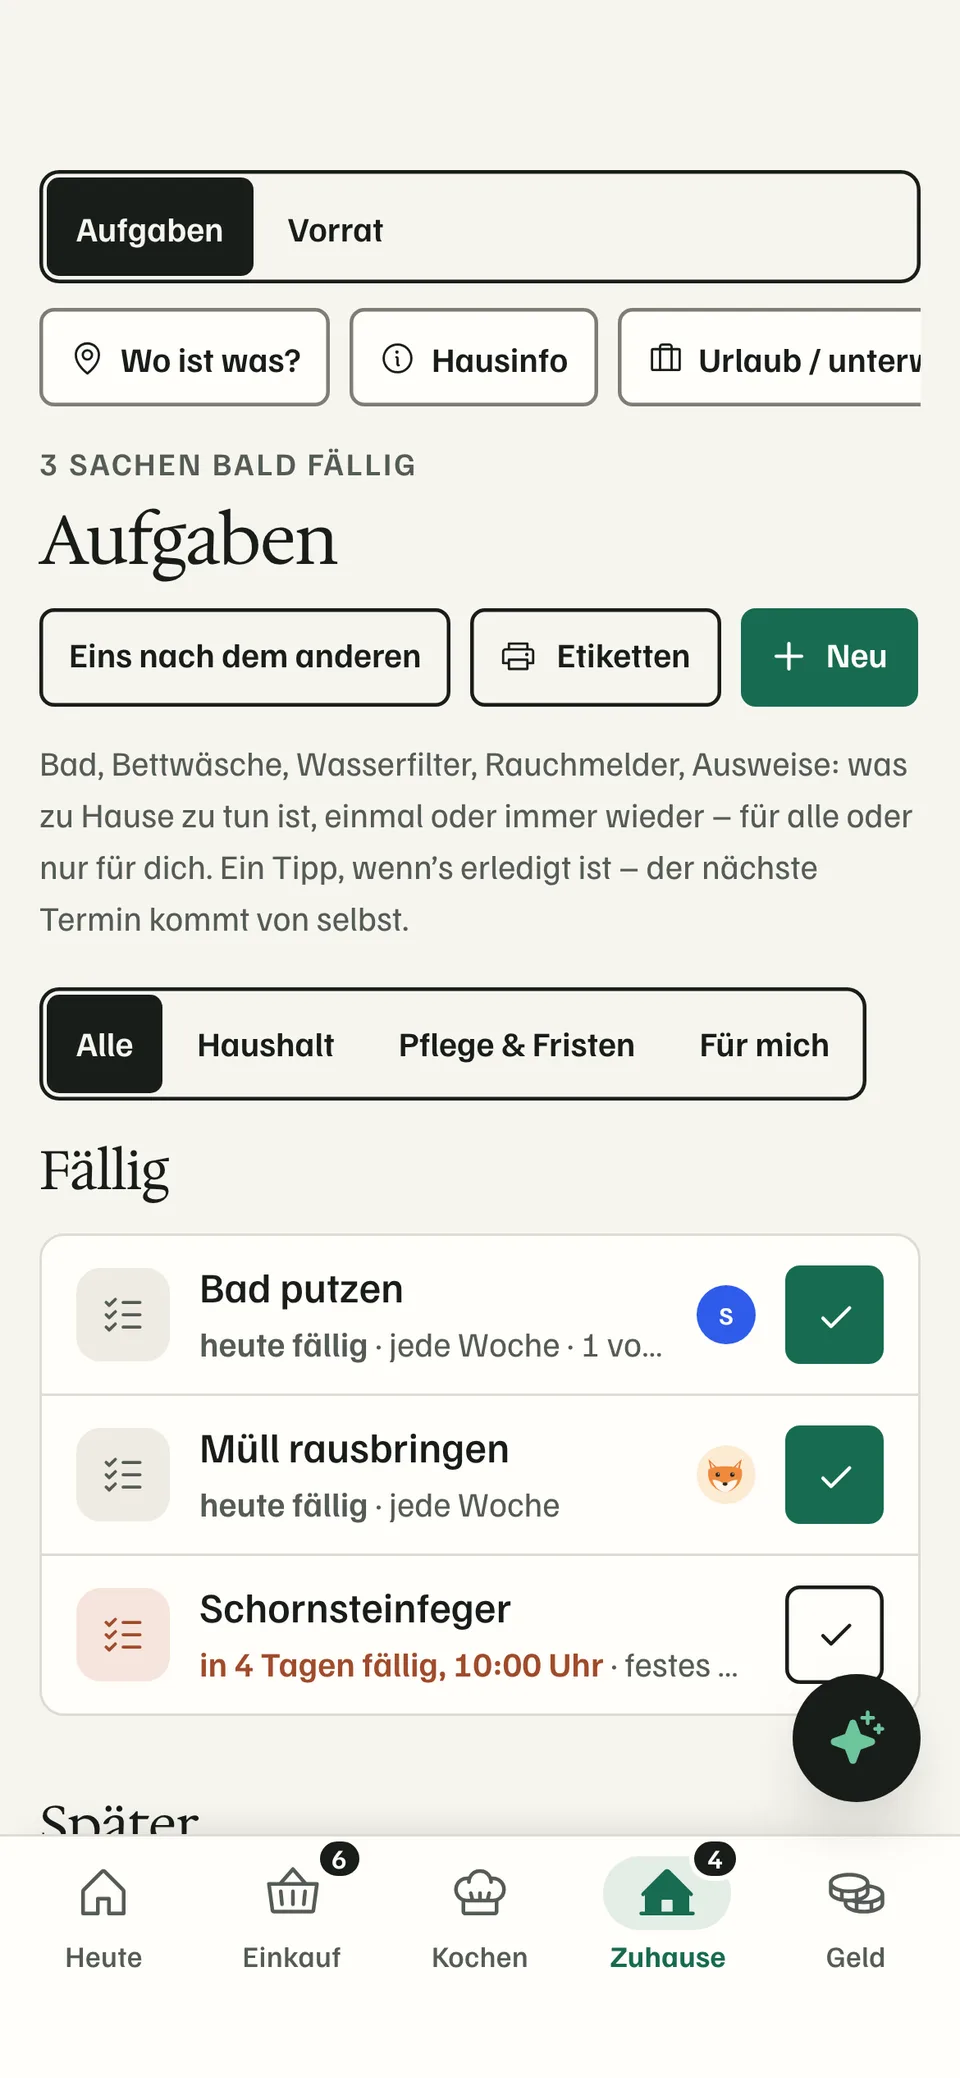
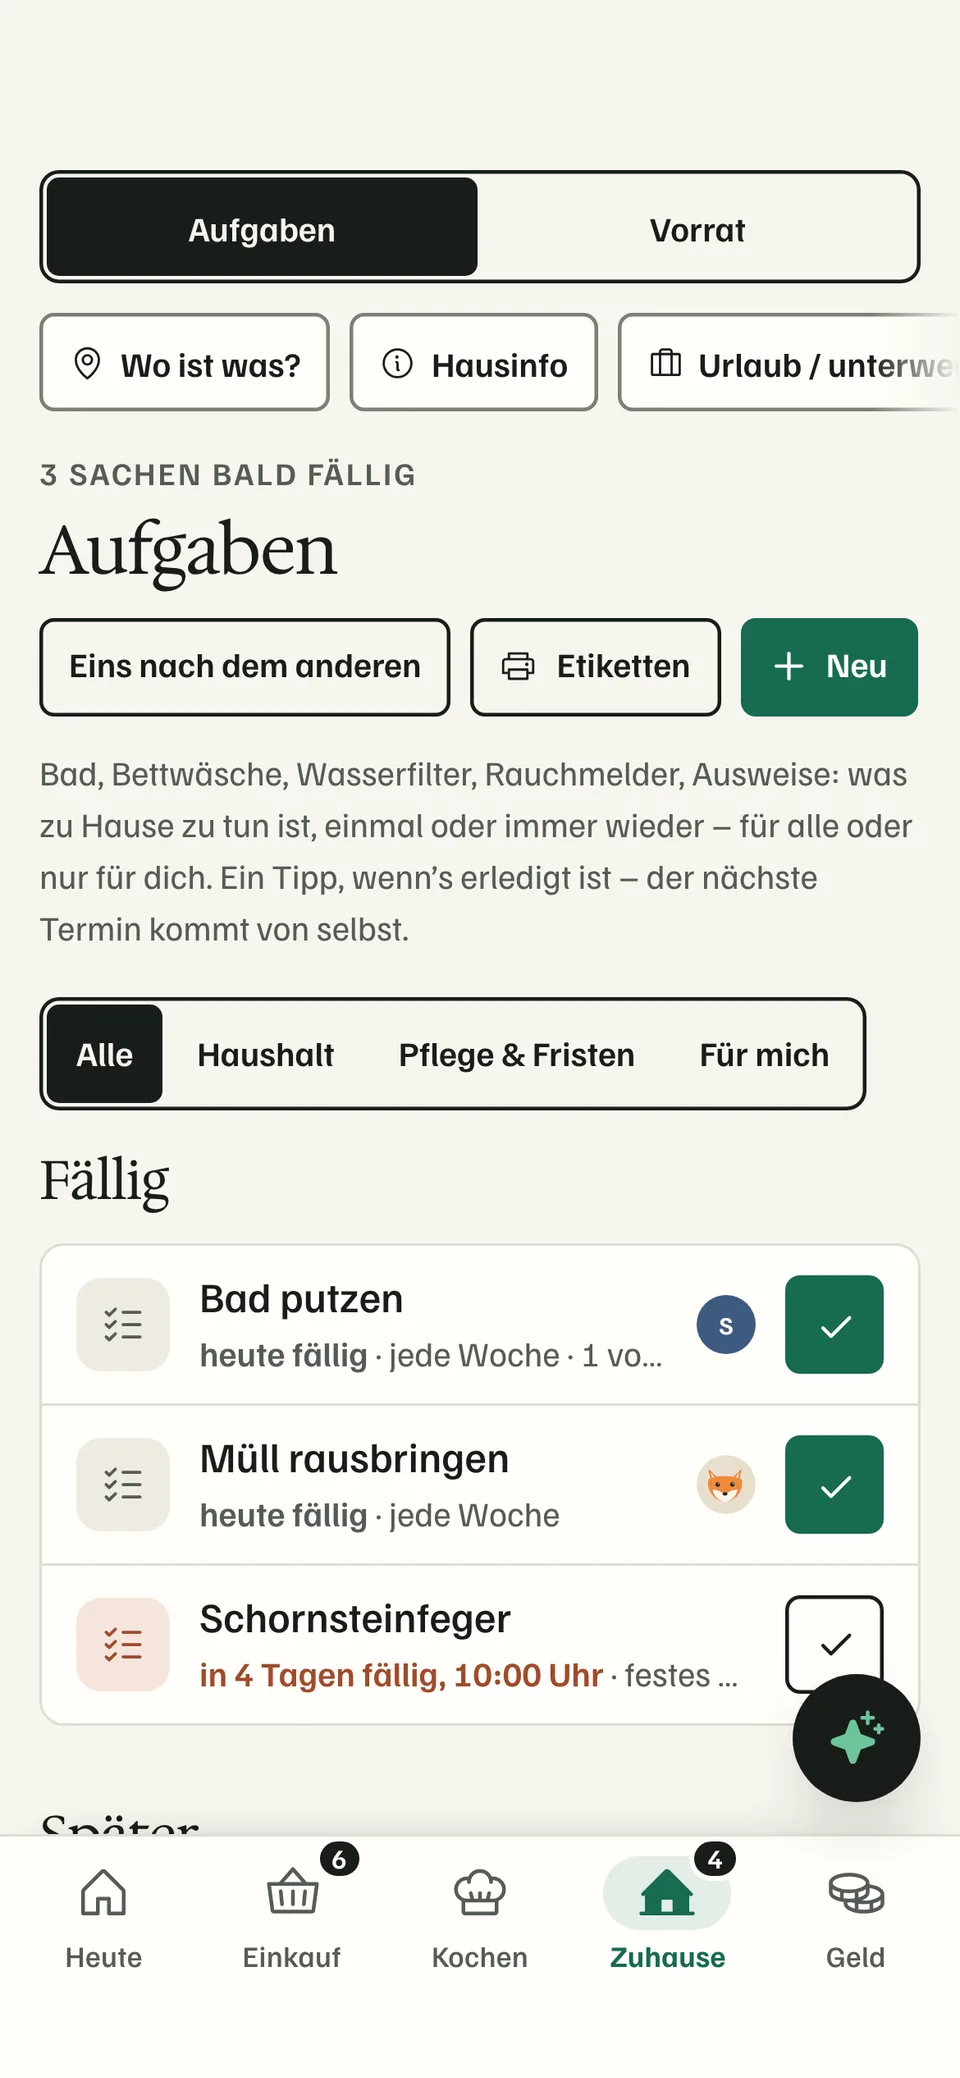
Design review: web app must-fixes, compact Denkarbeit answers, calmer person colours, new site screenshots
- Heute tiles stack below 420 px and break words properly
- Seg keeps its width; Seg full for Aufgaben/Vorrat; door chips fade at the
  edge instead of being cut off
- Aufgaben: calendar cards replaced by one link to Einstellungen
- Denkarbeit-Check: four short answers as one compact control (web + iOS),
  hint after "mostly me" – page about half as long
- Einkauf: "Ich hol's" as an icon on phones; disabled primary buttons look
  disabled; slimmer stepper on phones; region price sample not monospace
- earthy person colours, older saturated ones shown calmer (web + iOS)
- website screenshots renewed (de, en)
- docs/design/2026-10-15-design-review.md: what was done, what Till decides

Claude-Session: https://claude.ai/code/session_01JiCpWFdknKAgdRL9Z1ENTb

diff --git a/web/src/styles.css b/web/src/styles.css
@@ -826,6 +826,15 @@ h2.h3 {
   cursor: default;
   transform: none;
 }
+/* a disabled primary button looks disabled, not like a broken green one */
+.btn.primary:disabled,
+.btn.accent:disabled {
+  opacity: 1;
+  background: var(--surface-2);
+  color: var(--ink-3);
+  border-color: var(--line);
+  box-shadow: inset 0 0 0 1px var(--line);
+}
 .btn.primary,
 .btn.accent {
   background: var(--primary);
@@ -9754,7 +9763,8 @@ button.li {
 }
 .entry-tile > * {
   max-width: 100%;
-  overflow-wrap: anywhere;
+  /* break long words at syllables (hyphens from body), never in the middle of "Einkaufszettel" */
+  overflow-wrap: break-word;
 }
 .entry-tile > svg {
   flex-shrink: 0;
@@ -11052,3 +11062,67 @@ html.gentle .badge.empty {
   outline: 1.5px dashed var(--primary);
   outline-offset: 2px;
 }
+
+/* ------------------------------------------------------------ design review 15 Oct 2026 (web app) */
+/* Heute: the three tiles stack on narrow phones */
+@media (max-width: 420px) {
+  .entry-grid { grid-template-columns: 1fr; }
+  .entry-tile { flex-direction: row; align-items: center; min-height: 56px; gap: 12px; }
+}
+/* segmented controls keep their own width; .seg.full fills the row */
+.seg { align-self: flex-start; }
+.seg.full { display: flex; align-self: stretch; }
+.seg.full button { flex: 1; }
+/* chip rows scroll to the screen edge and fade out instead of being cut off inside the margin */
+.home-doors {
+  margin: 0 calc(var(--page-gutter, 16px) * -1);
+  padding: 2px var(--page-gutter, 16px);
+  scroll-padding: 0 var(--page-gutter, 16px);
+  -webkit-mask-image: linear-gradient(90deg, #000 calc(100% - 36px), transparent);
+  mask-image: linear-gradient(90deg, #000 calc(100% - 36px), transparent);
+}
+/* list rows on phones: "Ich hol's" as an icon so the name gets the room */
+.claim-btn { display: inline-flex; align-items: center; gap: 6px; }
+@media (max-width: 480px) {
+  .claim-btn { min-width: 44px; padding: 0 10px; justify-content: center; }
+  .claim-btn .claim-label { position: absolute; width: 1px; height: 1px; overflow: hidden; clip: rect(0 0 0 0); white-space: nowrap; }
+  /* Vorrat: a slimmer stepper (the tap area stays 44 px via ::before on touch) */
+  .stepper button { width: 32px; height: 32px; }
+  .stepper .val { min-width: 24px; }
+}
+
+/* Denkarbeit-Check: four short answers as one compact control (was four outlined chips per card) */
+.load-answers {
+  display: grid;
+  grid-template-columns: repeat(4, minmax(0, 1fr));
+  gap: 4px;
+  padding: 3px;
+  border-radius: var(--r-sm);
+  background: var(--surface-2);
+}
+.load-answers button {
+  min-height: 44px;
+  padding: 4px 6px;
+  border: 0;
+  border-radius: var(--r-xs);
+  background: transparent;
+  color: var(--ink-2);
+  font: inherit;
+  font-size: var(--fs-s);
+  font-weight: 600;
+  line-height: 1.2;
+  cursor: pointer;
+}
+.load-answers button.on {
+  background: var(--ink);
+  color: var(--canvas);
+}
+.load-answers button:focus-visible {
+  outline: 2px solid var(--primary);
+  outline-offset: 1px;
+}
+
+/* a button row that leads somewhere: title + wrapping explanation (e.g. Aufgaben › Kalender & Erinnerungen) */
+.nav-row { gap: 12px; padding: 12px 16px; width: 100%; text-align: left; font: inherit; color: inherit; }
+.nav-row .grow { display: flex; flex-direction: column; min-width: 0; }
+.nav-row .sub { white-space: normal; }

diff --git a/ios/ToHuus/Features/Household/LoadCardsView.swift b/ios/ToHuus/Features/Household/LoadCardsView.swift
@@ -45,6 +45,8 @@ enum LoadAnswers {
     static let all: [(key: String, title: String)] = [
         ("me", "Mostly me"), ("shared", "We share it"), ("other", "Mostly someone else"), ("na", "Not our thing"),
     ]
+    /// short labels for the answer buttons (the full one is the accessibility label)
+    static let short: [String: String] = ["me": "Me", "shared": "We share", "other": "Someone else", "na": "Not for us"]
 }
 
 /// Entry row (Aufgaben › Wer hat was im Blick)
@@ -142,18 +144,27 @@ struct LoadCardsView: View {
         Section {
             VStack(alignment: .leading, spacing: 10) {
                 Text(c.text).font(.headline)
-                FlowLayout(spacing: 8) {
+                // four short answers as one compact control (web: .load-answers)
+                HStack(spacing: 4) {
                     ForEach(LoadAnswers.all, id: \.key) { a in
+                        let on = c.mine == a.key
                         Button { Task { await answer(c, a.key) } } label: {
-                            Text(L(a.title)).font(.subheadline)
-                                .padding(.horizontal, 12).frame(minHeight: 44)
-                                .background(Capsule().fill(c.mine == a.key ? Theme.primary.opacity(0.18) : Theme.line.opacity(0.5)))
-                                .overlay(Capsule().stroke(c.mine == a.key ? Theme.primary : .clear, lineWidth: 1.5))
+                            Text(L(LoadAnswers.short[a.key] ?? a.title))
+                                .font(.footnote.weight(.semibold))
+                                .multilineTextAlignment(.center)
+                                .minimumScaleFactor(0.85)
+                                .frame(maxWidth: .infinity, minHeight: 44)
+                                .foregroundStyle(on ? Theme.canvas : Theme.ink2)
+                                .background(on ? Theme.ink : Color.clear, in: RoundedRectangle(cornerRadius: Theme.Radius.sm))
+                                .contentShape(Rectangle())
                         }
                         .buttonStyle(.plain)
-                        .accessibilityAddTraits(c.mine == a.key ? .isSelected : [])
+                        .accessibilityLabel(L(a.title))
+                        .accessibilityAddTraits(on ? .isSelected : [])
                     }
                 }
+                .padding(3)
+                .background(Theme.surface2, in: RoundedRectangle(cornerRadius: Theme.Radius.base))
                 if let h = c.household {
                     Text(LoadAnswers.all.compactMap { a in
                         let names = h.who[a.key] ?? []
@@ -161,7 +172,7 @@ struct LoadCardsView: View {
                     }.joined(separator: " · "))
                     .font(.caption).foregroundStyle(Theme.ink3)
                 }
-                if let help = c.help {
+                if let help = c.help, c.mine == "me" {
                     Label("\(L("How ToHuus helps")): \(help.text)", systemImage: "sparkles").font(.caption).foregroundStyle(Theme.ink2)
                 }
                 if c.mine == "me" {

diff --git a/web/src/pages/LoadCards.tsx b/web/src/pages/LoadCards.tsx
@@ -29,6 +29,9 @@ interface Deck {
   members: number;
 }
 
+/** short labels for the answer buttons (the full one is the accessible name) */
+const SHORT: Record<Answer, string> = { me: 'Me', shared: 'We share', other: 'Someone else', na: 'Not for us' };
+
 export const ANSWERS: [Answer, string][] = [
   ['me', 'Mostly me'],
   ['shared', 'We share it'],
@@ -154,10 +157,10 @@ export function LoadCardsPage() {
           <div key={c.key} className="card loadcard">
             <div className="eyebrow">{d.areas.find((a) => a.key === c.area)?.title}</div>
             <p className="loadcard-text">{c.text}</p>
-            <div className="chips" role="radiogroup" aria-label={c.text}>
+            <div className="load-answers" role="radiogroup" aria-label={c.text}>
               {ANSWERS.map(([a, label]) => (
-                <button key={a} role="radio" aria-checked={c.mine === a} className={`chip ${c.mine === a ? 'on' : ''}`} onClick={() => answer(c.key, a)}>
-                  {t(label)}
+                <button key={a} role="radio" aria-checked={c.mine === a} aria-label={t(label)} className={c.mine === a ? 'on' : ''} onClick={() => answer(c.key, a)}>
+                  {t(SHORT[a])}
                 </button>
               ))}
             </div>
@@ -168,7 +171,8 @@ export function LoadCardsPage() {
                   .join(' · ')}
               </p>
             )}
-            {c.help && (
+            {/* the hint matters where it takes something off your head: shown once you said "mostly me" */}
+            {c.help && c.mine === 'me' && (
               <button className="linkish small" style={{ marginTop: 8 }} onClick={() => nav(c.help!.path)}>
                 {t('How ToHuus helps')}: {c.help.text} <ArrowRight size={12} />
               </button>

diff --git a/web/src/pages/Care.tsx b/web/src/pages/Care.tsx
@@ -19,6 +19,8 @@ import {
   ShieldCheck,
   Trash,
   Wrench,
+  CalendarBlank,
+  CaretRight,
 } from '@phosphor-icons/react';
 import { useEffect, useState } from 'react';
 import { useNavigate, useSearchParams } from 'react-router-dom';
@@ -27,8 +29,6 @@ import { type Location, type Product, del, fmtDate, invalidate, patch, post, use
 import { useHousehold } from '../household';
 import { Avatar, Empty, ProductPicker, Seg, Sheet, Skeleton, Thumb, Toggle, useToast } from '../ui';
 import { usePeopleDirectory } from '../people/Avatar';
-import { CalDavCard, CalendarFeedCard } from '../shop/bridges';
-import { CalendarReadCard } from './CalendarSync';
 import { BlickSection } from './Blick';
 import { OfferAsks, OfferBox, WhoDoesWhatSection } from './WhoDoesWhat';
 import { durationLabel, timeLabel } from './taskTime';
@@ -458,9 +458,14 @@ export function Care() {
 
       {data?.me ? (
         <div className="stack" style={{ marginTop: 24 }}>
-          <CalendarReadCard />
-          <CalDavCard />
-          <CalendarFeedCard />
+          <button className="li clickable card nav-row" onClick={() => nav('/einstellungen?tab=account')}>
+            <CalendarBlank size={20} aria-hidden="true" />
+            <span className="grow">
+              <span className="title">{t('Calendar & reminders')}</span>
+              <span className="sub">{t('Read your calendar, Apple Reminders, subscription link – in the settings.')}</span>
+            </span>
+            <CaretRight size={16} aria-hidden="true" />
+          </button>
         </div>
       ) : null}
       <TaskDetail

diff --git a/web/src/ui.tsx b/web/src/ui.tsx
@@ -107,7 +107,7 @@ export function Toggle({ on, onChange, label, disabled }: { on: boolean; onChang
   return <button ref={ref} type="button" role="switch" aria-label={label ?? auto} aria-checked={on} disabled={disabled} className={`toggle ${on ? 'on' : ''}`} onClick={() => onChange(!on)} />;
 }
 
-export function Seg<T extends string>({ value, options, onChange, label }: { value: T; options: [T, string][]; onChange: (v: T) => void; label?: string }) {
+export function Seg<T extends string>({ value, options, onChange, label, full }: { value: T; options: [T, string][]; onChange: (v: T) => void; label?: string; full?: boolean }) {
   // an ink indicator slides under the active option (briefing: category switch 160–240 ms)
   const ref = useRef<HTMLDivElement>(null);
   const [ind, setInd] = useState<{ x: number; w: number } | null>(null);
@@ -121,7 +121,7 @@ export function Seg<T extends string>({ value, options, onChange, label }: { val
     return () => ro?.disconnect();
   }, [value, options.length]);
   return (
-    <div className={`seg ${ind ? 'measured' : ''}`} ref={ref} role="group" aria-label={label}>
+    <div className={`seg${full ? ' full' : ''} ${ind ? 'measured' : ''}`} ref={ref} role="group" aria-label={label}>
       {ind && <span className="seg-ind" aria-hidden="true" style={{ width: ind.w, transform: `translateX(${ind.x}px)` }} />}
       {options.map(([v, l]) => (
         <button key={v} className={v === value ? 'on' : ''} aria-pressed={v === value} onClick={() => onChange(v)} type="button">

diff --git a/web/src/people/Avatar.tsx b/web/src/people/Avatar.tsx
@@ -61,7 +61,7 @@ export function Avatar({
   const [broken, setBroken] = useState(false);
   const hit = face ? null : lookup(dir, name ?? '', personKey);
   const f: Face = face ?? hit?.face ?? { type: 'initials' };
-  const c = color ?? hit?.color ?? '#2f5bea';
+  const c = personColor(color ?? hit?.color ?? '#3d5a80');
   if (f.type === 'photo' && !broken)
     return (
       <span className={`avatar avatar-photo ${className}`} style={{ width: size, height: size, background: c }}>
@@ -88,3 +88,20 @@ export function Avatar({
     </span>
   );
 }
+
+/** the earlier, more saturated person colours → their calmer twins (stored values stay as they are) */
+const CALMER: Record<string, string> = {
+  '#2f5bea': '#3d5a80',
+  '#d0603a': '#b5553a',
+  '#1d9a63': '#2f7d5b',
+  '#8e44ad': '#7a4f8f',
+  '#c2185b': '#a83f62',
+  '#b97c0c': '#94660f',
+  '#f2a33a': '#8a6a2a',
+  '#0f8a8a': '#2c7a7b',
+  '#e0622a': '#b5553a',
+  '#8a4fd8': '#7a4f8f',
+  '#d43f6f': '#a83f62',
+  '#0f8a9d': '#2c7a7b',
+};
+export const personColor = (c: string) => CALMER[c.toLowerCase()] ?? c;

diff --git a/ios/ToHuus/Features/Cooking/CookingParts.swift b/ios/ToHuus/Features/Cooking/CookingParts.swift
@@ -13,7 +13,7 @@ struct PersonDot: View {
             .font(.system(size: size * 0.45, weight: .semibold))
             .foregroundStyle(.white)
             .frame(width: size, height: size)
-            .background(Color(hexString: color) ?? Theme.sage, in: Circle())
+            .background(Color(hexString: PersonColor.calm(color)) ?? Theme.sage, in: Circle())
             .accessibilityHidden(true)
     }
 }
@@ -228,4 +228,14 @@ enum AmountScale {
         }
         return out
     }
+}
+
+/// The earlier, more saturated person colours → their calmer twins (web: people/Avatar.tsx personColor).
+enum PersonColor {
+    static let calmer: [String: String] = [
+        "#2f5bea": "#3d5a80", "#d0603a": "#b5553a", "#1d9a63": "#2f7d5b", "#8e44ad": "#7a4f8f",
+        "#c2185b": "#a83f62", "#b97c0c": "#94660f", "#f2a33a": "#8a6a2a", "#0f8a8a": "#2c7a7b",
+        "#e0622a": "#b5553a", "#8a4fd8": "#7a4f8f", "#d43f6f": "#a83f62", "#0f8a9d": "#2c7a7b",
+    ]
+    static func calm(_ c: String?) -> String? { c.map { calmer[$0.lowercased()] ?? $0 } }
 }

diff --git a/web/src/pages/RegionSettings.tsx b/web/src/pages/RegionSettings.tsx
@@ -117,7 +117,7 @@ export function RegionCard({ admin }: { admin: boolean }) {
       </div>
 
       <dl className="rg-facts small">
-        <div><dt>{t('Prices')}</dt><dd className="mono">{sample(r.locale, r.currency)}</dd></div>
+        <div><dt>{t('Prices')}</dt><dd className="num">{sample(r.locale, r.currency)}</dd></div>
         <div><dt>{t('Units')}</dt><dd>{r.units === 'us' ? t('US customary (oz, lb, cups)') : t('Metric (g, kg, ml)')}</dd></div>
         <div><dt>{t('Week starts')}</dt><dd>{r.week_start_day === 0 ? t('Sunday') : t('Monday')}</dd></div>
         <div><dt>{t('Receipts')}</dt><dd>{r.receipt_grammar ? t(RECEIPTS[r.receipt_grammar]) : t('Photos and PDFs via the vision model')}</dd></div>

diff --git a/web/src/locales/de/tasks.ts b/web/src/locales/de/tasks.ts
@@ -234,4 +234,9 @@ export const tasks: Record<string, string> = {
   'Probably {name} cooks': 'Kocht voraussichtlich {name}',
   '{name} usually cooks on this weekday.': 'An diesem Wochentag kocht meistens {name}.',
   '{name} has cooked most of the time lately.': '{name} hat zuletzt meistens gekocht.',
+  'Calendar & reminders': 'Kalender & Erinnerungen',
+  'Read your calendar, Apple Reminders, subscription link – in the settings.': 'Kalender lesen, Apple Erinnerungen, Abo-Link – in den Einstellungen.',
+  'We share': 'Geteilt',
+  'Someone else': 'Jemand anders',
+  'Not for us': 'Bei uns nicht',
 };

diff --git a/web/src/people/People.tsx b/web/src/people/People.tsx
@@ -53,7 +53,8 @@ export interface Person {
   email_confirmed?: boolean;
 }
 
-export const PERSON_COLORS = ['#2f5bea', '#d0603a', '#1d9a63', '#8e44ad', '#c2185b', '#b97c0c', '#f2a33a', '#0f8a8a'];
+// earthy, all readable with light initials (design review 15 Oct 2026) – no saturated blue
+export const PERSON_COLORS = ['#3d5a80', '#b5553a', '#2f7d5b', '#7a4f8f', '#a83f62', '#94660f', '#8a6a2a', '#2c7a7b'];
 
 /** English source text; shown via t() */
 export const LEVELS: { key: GuestLevel; title: string; text: string }[] = [

diff --git a/web/src/pages/Shopping.tsx b/web/src/pages/Shopping.tsx
@@ -930,8 +930,9 @@ function ShopRow({ i, big = false, store = false, fresh = false, onCheck, onMore
         </span>
       )}
       {onClaim && !on && (
-        <button className="btn sm claim-btn" onClick={onClaim}>
-          {t('I’ll get it')}
+        <button className="btn sm claim-btn" onClick={onClaim} aria-label={t('I’ll get it')}>
+          <HandHeart size={16} aria-hidden="true" />
+          <span className="claim-label">{t('I’ll get it')}</span>
         </button>
       )}
       {onMore && !on && (

diff --git a/server/lib/auth-oidc.ts b/server/lib/auth-oidc.ts
@@ -209,7 +209,7 @@ export async function finishOidc(q: { state?: string; code?: string; error?: str
 
 // ---------------------------------------------------------------- members
 
-const COLORS = ['#2f5bea', '#1d9a63', '#e0622a', '#8a4fd8', '#d43f6f', '#0f8a9d'];
+const COLORS = ['#3d5a80', '#2f7d5b', '#b5553a', '#7a4f8f', '#a83f62', '#2c7a7b'];
 export const subjectKey = (issuer: string, sub: string) => `${trimIssuer(issuer)}|${sub}`;
 const emailVerified = (v: unknown) => v === true || v === 'true';
 
